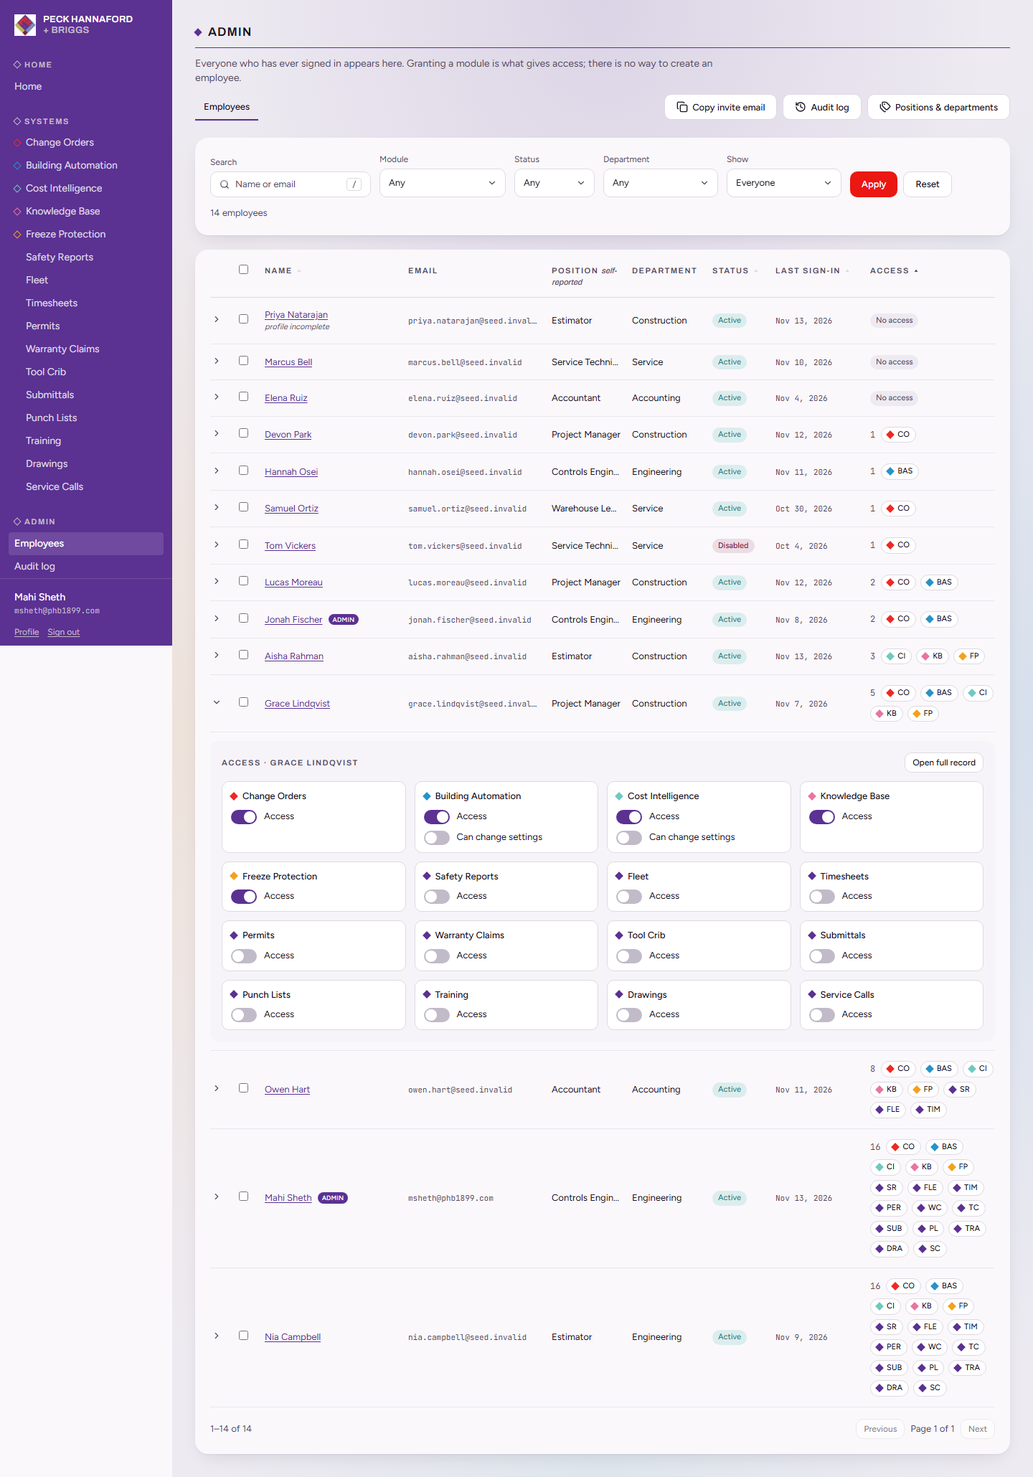
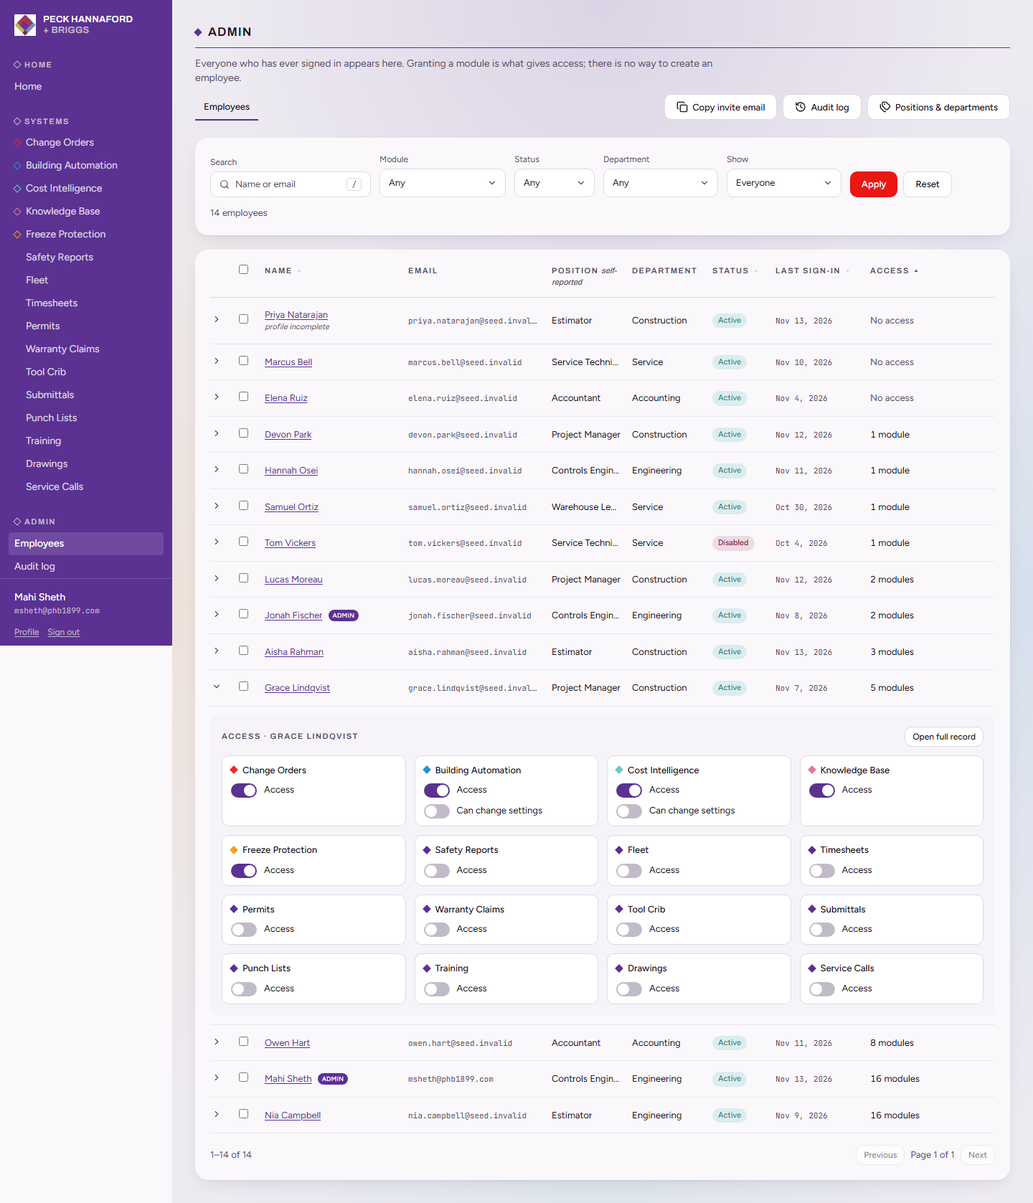
Admin Employees: the Access cell is a count only, the expanded row names the grants with granted modules first; Chip and the short-name lookup removed
A collapsed row says "4 modules", "1 module" or "No access" in grey and
nothing else, and still sorts by the count. The chevron's panel is the only
place on the list that names a specific grant: every active module, granted
ones first and the rest in the registry's order, each with its diamond in its
colour, its full name and the two switches. components/ui/Chip.tsx and
lib/module-short-name.ts are deleted - nothing else used either - and the
tests, the runbook, the conventions note, CLAUDE.md, the capture record and
the three "after" captures follow.

diff --git a/app/(platform)/admin/employee-table.tsx b/app/(platform)/admin/employee-table.tsx
@@ -6,9 +6,8 @@ import { ChevronDown, ChevronRight } from "lucide-react";
 import { useState, useTransition } from "react";
 import { APP_TIME_ZONE } from "@/lib/activity/rollover";
 import { moduleAccent } from "@/lib/module-accent";
-import { moduleShortName } from "@/lib/module-short-name";
 import { hasSettingsSurface } from "@/lib/module-settings";
-import { Button, Card, Chip, Dropdown, Empty, Pill, SearchBar, Switch, Table } from "@/components/ui";
+import { Button, Card, Dropdown, Empty, Pill, SearchBar, Switch, Table } from "@/components/ui";
 import { BulkBar } from "./bulk-bar";
 
 /**
@@ -26,12 +25,15 @@ import { BulkBar } from "./bulk-bar";
  *     page, Apply: all of them run the filters as drafted, because a draft a
  *     person can see is the query they mean. Reset clears the draft and the
  *     URL together.
- *   - **A row expands in place to its access panel**: every active module,
- *     a switch for the grant and one for the module's settings rights, edited
- *     through the same routes the employee page uses, with the same audit
- *     events and the same platform-admin check behind them. The panel is a
- *     wrapping grid, so fifteen modules are three rows of cards and never a
- *     horizontal scroll.
+ *   - **The Access column is a count; the row's panel is the picture.** A
+ *     collapsed row says "4 modules" or "No access" and nothing more, and
+ *     sorts by that count. The chevron expands the row to every active
+ *     module - granted ones first - with the module's diamond, its full name,
+ *     a switch for the grant and one for its settings rights, edited through
+ *     the same routes the employee page uses, with the same audit events and
+ *     the same platform-admin check behind them. The panel is a wrapping
+ *     grid, so fifteen modules are four rows of cards and never a horizontal
+ *     scroll. Nowhere else on the list names a specific grant.
  */
 
 export interface AdminEmployeeRow {
@@ -608,35 +610,31 @@ function SortHeader({
 }
 
 /**
- * The Access column: how many modules, then one chip per module - the
- * module's diamond in its own colour (the sidebar's, the header's) and its
- * short name, the full name behind it. Chips wrap, so a person with every
- * module is two lines and never a wider table. Nobody is "No access", in
- * words and in grey.
+ * The Access column: how many of the active modules the person holds, in
+ * words - "4 modules", "1 module" - or "No access" in grey. A count and
+ * nothing else (2026-11-13, second pass): which modules is the expanded
+ * panel's job, and a collapsed row stays one line whatever the person
+ * holds. The column sorts by this count on the server (`sort=access`).
  */
 export function AccessCell({ employee, modules }: { employee: AdminEmployeeRow; modules: AdminModule[] }) {
-  const granted = modules
-    .map((m, index) => ({ ...m, index }))
-    .filter((m) => employee.grantedModuleKeys.includes(m.key));
+  const count = modules.filter((m) => employee.grantedModuleKeys.includes(m.key)).length;
 
-  if (granted.length === 0) return <Pill tone="muted">No access</Pill>;
+  if (count === 0) return <span className="text-[var(--muted)]">No access</span>;
 
   return (
-    <span className="flex flex-wrap items-center gap-1.5" data-testid="admin-access-cell">
-      <span className="mr-0.5 font-mono text-[0.75rem] tabular-nums text-[var(--muted)]">{granted.length}</span>
-      {granted.map((m) => (
-        <Chip key={m.key} mark={moduleAccent(m.key, m.index).fill} title={m.displayName}>
-          {moduleShortName(m.key, m.displayName)}
-        </Chip>
-      ))}
+    <span className="tabular-nums" data-testid="admin-access-cell">
+      {count} {count === 1 ? "module" : "modules"}
     </span>
   );
 }
 
 /**
- * A row's expanded panel: every active module, a switch for the grant and -
- * once granted, for a module that has a settings screen - a switch for the
- * module-admin flag, with the employee page's wording.
+ * A row's expanded panel - the one place on the list that names a specific
+ * grant: every active module, granted ones first and the rest after in the
+ * registry's order, each with its diamond in its colour, its full name, a
+ * switch for the grant and - once granted, for a module that has a settings
+ * screen - a switch for the module-admin flag, with the employee page's
+ * wording.
  *
  * The settings switch is only offered once access is granted. The server
  * refuses it outright without a grant, because "administrator of a module you
@@ -664,6 +662,13 @@ export function AccessPanel({
 }) {
   const name = `${employee.firstName} ${employee.lastName}`.trim() || employee.email;
 
+  // Granted first, then the rest; within each, the registry's own order. The
+  // index is the module's place in the registry, which is what the accent
+  // lookup's fallback keys on, so a card's colour does not move with the sort.
+  const ordered = modules
+    .map((m, index) => ({ ...m, index, granted: employee.grantedModuleKeys.includes(m.key) }))
+    .sort((a, b) => Number(b.granted) - Number(a.granted) || a.index - b.index);
+
   return (
     <div data-testid="admin-access-panel">
       <div className="flex flex-wrap items-center justify-between gap-3">
@@ -677,8 +682,8 @@ export function AccessPanel({
         <p className="mt-3 text-[var(--muted)]">No active modules exist.</p>
       ) : (
         <ul className="mt-3 grid grid-cols-[repeat(auto-fill,minmax(16rem,1fr))] gap-3">
-          {modules.map((m, index) => {
-            const granted = employee.grantedModuleKeys.includes(m.key);
+          {ordered.map((m) => {
+            const granted = m.granted;
             const isAdmin = employee.moduleAdminKeys.includes(m.key);
             const settings = hasSettingsSurface(m.key);
             return (
@@ -686,11 +691,12 @@ export function AccessPanel({
                 key={m.key}
                 className="rounded-[var(--radius-control)] border border-[var(--border)] bg-white px-3 py-2.5"
                 data-testid="admin-access-module"
+                data-granted={granted ? "true" : "false"}
               >
                 <div className="flex items-center gap-2">
                   <span
                     className="diamond diamond--filled"
-                    style={{ color: moduleAccent(m.key, index).fill }}
+                    style={{ color: moduleAccent(m.key, m.index).fill }}
                     aria-hidden="true"
                   />
                   <span className="font-medium">{m.displayName}</span>

diff --git a/tests/admin-employees-ui.test.tsx b/tests/admin-employees-ui.test.tsx
@@ -45,7 +45,6 @@ import {
   type AdminModule,
 } from "@/app/(platform)/admin/employee-table";
 import { buildInviteEmail } from "@/lib/admin/invite-email";
-import { moduleShortName } from "@/lib/module-short-name";
 
 // ------------------------------------------------------------------ fixtures
 
@@ -181,41 +180,27 @@ afterEach(async () => {
 // -------------------------------------------------------------------- tests
 
 describe("the Access column", () => {
-  it("is a count then one chip per module, each with the module's diamond colour and its short name", () => {
+  it("is a count in words and nothing else: no chip, no diamond, no module name", () => {
     const markup = renderToStaticMarkup(createElement(AccessCell, { employee: two, modules: REAL }));
-    expect(markup).toMatch(/tabular-nums[^"]*">2<\/span>/);
-    // Change Orders' red, Building Automation's cyan - the sidebar's colours.
-    expect(markup).toContain('style="color:var(--phb-red)"');
-    expect(markup).toContain('style="color:var(--phb-cyan)"');
-    expect(markup).toContain('title="Change Orders"');
-    expect(markup).toContain('title="Building Automation"');
-    expect(markup).toContain('<span aria-hidden="true">CO</span><span class="sr-only">Change Orders</span>');
-    expect(markup).toContain('<span aria-hidden="true">BAS</span><span class="sr-only">Building Automation</span>');
-    // A module the person does not have is not a chip.
-    expect(markup).not.toContain("Cost Intelligence");
-    // Chips wrap rather than widen the table.
-    expect(markup).toContain("flex flex-wrap");
+    expect(markup).toBe('<span class="tabular-nums" data-testid="admin-access-cell">2 modules</span>');
+    expect(markup).not.toContain("diamond");
+    expect(markup).not.toContain("Change Orders");
+    expect(markup).not.toContain("Building Automation");
+    expect(markup).not.toContain("BAS");
+
+    const one = employee({ grantedModuleKeys: ["bas"] });
+    expect(renderToStaticMarkup(createElement(AccessCell, { employee: one, modules: REAL }))).toContain(">1 module</span>");
+    expect(renderToStaticMarkup(createElement(AccessCell, { employee: everyone, modules: MANY }))).toContain(">16 modules</span>");
+  });
+
+  it("counts only the active modules the registry lists, which is what the panel can show", () => {
+    const retired = employee({ grantedModuleKeys: ["change-orders", "no-such-module"] });
+    expect(renderToStaticMarkup(createElement(AccessCell, { employee: retired, modules: REAL }))).toContain(">1 module</span>");
   });
 
   it("says No access, in words and in grey, for nobody", () => {
     const markup = renderToStaticMarkup(createElement(AccessCell, { employee: nobody, modules: REAL }));
-    expect(markup).toContain(">No access</span>");
-    expect(markup).toContain("bg-[var(--neutral-100)] text-[var(--muted)]");
-    expect(markup).not.toContain("diamond");
-  });
-
-  it("short names: the five modules by name, anything else by initials, or three letters of a one-word name", () => {
-    expect(moduleShortName("change-orders", "Change Orders")).toBe("CO");
-    expect(moduleShortName("bas", "Building Automation")).toBe("BAS");
-    expect(moduleShortName("cost-intelligence", "Cost Intelligence")).toBe("CI");
-    expect(moduleShortName("knowledge-base", "Knowledge Base")).toBe("KB");
-    expect(moduleShortName("freeze-protection", "Freeze Protection")).toBe("FP");
-    expect(moduleShortName("safety-reports", "Safety Reports")).toBe("SR");
-    expect(moduleShortName("x", "Fleet Maintenance Log Book")).toBe("FML");
-    // One word: three letters, so Fleet and Training are not both "T".
-    expect(moduleShortName("fleet", "Fleet")).toBe("FLE");
-    expect(moduleShortName("training", "Training")).toBe("TRA");
-    expect(moduleShortName("constructor", "")).toBe("CON");
+    expect(markup).toBe('<span class="text-[var(--muted)]">No access</span>');
   });
 });
 
@@ -329,6 +314,17 @@ describe("a row's expanded panel", () => {
     // A wrapping grid, not a row: sixteen modules never need a sideways scroll.
     expect(panel!.querySelector("ul")?.className).toContain("grid-cols-[repeat(auto-fill,minmax(16rem,1fr))]");
 
+    // Granted first, then the rest, each half in the registry's order; the
+    // panel is the only place a specific grant is named.
+    const names = Array.from(cards).map((card) => card.querySelector(".font-medium")?.textContent);
+    expect(names.slice(0, 2)).toEqual(["Change Orders", "Building Automation"]);
+    expect(names.slice(2)).toEqual(MANY.filter((m) => !two.grantedModuleKeys.includes(m.key)).map((m) => m.displayName));
+    expect(Array.from(cards).map((card) => card.getAttribute("data-granted"))).toEqual([
+      "true",
+      "true",
+      ...Array.from({ length: 14 }, () => "false"),
+    ]);
+
     const switches = (card: Element) => Array.from(card.querySelectorAll('[role="switch"]'));
     const co = byText(panel!, '[data-testid="admin-access-module"] .font-medium', "Change Orders")!.closest("li")!;
     const bas = byText(panel!, '[data-testid="admin-access-module"] .font-medium', "Building Automation")!.closest("li")!;
@@ -431,5 +427,11 @@ describe("the chrome", () => {
     // The status pills keep the colours the table had: teal for active, maroon for disabled.
     expect(markup).toContain("text-[var(--phb-teal-ink)]");
     expect(markup).toContain("text-[var(--phb-maroon)]");
+    // No row names a module while collapsed; the counts do the work.
+    expect(markup).toContain(">No access</span>");
+    expect(markup).toContain(">2 modules</span>");
+    expect(markup).toContain(">16 modules</span>");
+    expect(markup).not.toContain('style="color:var(--phb-cyan)"');
+    expect(markup).not.toContain("Building Automation");
   });
 });

diff --git a/tests/ui-kit-extensions.test.tsx b/tests/ui-kit-extensions.test.tsx
@@ -18,8 +18,6 @@ import * as kit from "@/components/ui";
  *   - Table: `columns` for unequal widths and `detail` for a panel under an
  *     expanded row. Its default markup is pinned byte for byte to what it
  *     rendered before, so every table drawn before draws the same.
- *   - Chip: a neutral label for a thing, with an optional diamond mark in a
- *     colour the caller names and a long name behind a short one.
  *   - Switch: an on / off control, `role="switch"`, the accent when on.
  */
 
@@ -63,26 +61,6 @@ describe("Table", () => {
     expect(panelAt).toBeGreaterThan(markup.indexOf(">3</div>"));
     expect(markup.indexOf(">1</div>")).toBeLessThan(markup.indexOf(">3</div>"));
     expect(markup).toContain('class="rounded-[var(--radius-row)] bg-[var(--neutral-50)] px-4 py-4 text-[0.8125rem]"');
-  });
-});
-
-describe("Chip", () => {
-  it("is a neutral label with no mark and no title by default", () => {
-    const markup = html(<kit.Chip>CO</kit.Chip>);
-    expect(markup).toBe(
-      '<span class="inline-flex shrink-0 items-center gap-1.5 rounded-full border border-[var(--border)] bg-white px-2 py-0.5 text-[0.6875rem] font-medium text-[var(--foreground)]">CO</span>',
-    );
-  });
-
-  it("draws the diamond in the colour it is given, and reads the long name behind the short one", () => {
-    const markup = html(
-      <kit.Chip mark="var(--phb-cyan)" title="Building Automation">
-        BAS
-      </kit.Chip>,
-    );
-    expect(markup).toContain('title="Building Automation"');
-    expect(markup).toMatch(/<span class="diamond diamond--filled[^"]*" style="color:var\(--phb-cyan\)" aria-hidden="true"><\/span>/);
-    expect(markup).toContain('<span aria-hidden="true">BAS</span><span class="sr-only">Building Automation</span>');
   });
 });
 

diff --git a/components/ui/index.ts b/components/ui/index.ts
@@ -18,7 +18,6 @@
 export { Button } from "./Button";
 export { Callout } from "./Callout";
 export { Card } from "./Card";
-export { Chip } from "./Chip";
 export { Dropdown, type DropdownOption } from "./Dropdown";
 export { Empty } from "./Empty";
 export {

diff --git a/docs/design/admin-employees-kit/README.md b/docs/design/admin-employees-kit/README.md
@@ -10,8 +10,8 @@ per module became one Access column with chips and an expandable row
 | Capture | What it shows |
 |---|---|
 | `before-employees.png` | `main` at 107c318: the old page on the same data. *With a grant* by default, so three of the fourteen people - the ones who signed in and have no access - are not on it; one column per module, sixteen of them, running off the right edge of a 1440-wide window; name ascending. |
-| `after-employees.png` | This branch, the same data: the module shells' chrome with the three header actions as kit buttons, the kit search box and dropdowns, Apply the one red primary. Everyone, fewest grants first, the three people with no access at the top, newest sign-in first. One Access column: a count, then a chip per module with the module's diamond in its colour and its short name, wrapping to four lines for the two people who hold all sixteen. |
-| `after-employees-expanded.png` | Grace Lindqvist's row expanded from its chevron: sixteen module cards in a wrapping grid of four, a switch for the grant on each, *Can change settings* on the two granted modules that have a settings screen (Building Automation, Cost Intelligence) and not on Change Orders, *Open full record* at the corner. The table's scroll box measured 1094 px of 1094 during the capture: nothing scrolls sideways. |
+| `after-employees.png` | This branch, the same data: the module shells' chrome with the three header actions as kit buttons, the kit search box and dropdowns, Apply the one red primary. Everyone, fewest grants first, the three people with no access at the top, newest sign-in first. One Access column, a count in words - *No access*, *1 module*, *16 modules* - and nothing else; every row is one line whatever the person holds. (A first pass put a chip per module on the row; the owner asked for the count alone the same day.) |
+| `after-employees-expanded.png` | Grace Lindqvist's row expanded from its chevron: sixteen module cards in a wrapping grid of four, her five granted modules first and the eleven others after, each with its diamond in its colour and its full name, a switch for the grant on each, *Can change settings* on the two granted modules that have a settings screen (Building Automation, Cost Intelligence) and not on Change Orders, *Open full record* at the corner. The only place on the list that names a specific grant. The table's scroll box measured 1094 px of 1094 during the capture: nothing scrolls sideways. |
 | `after-employees-narrowed.png` | Two letters typed into the search box: the page narrowed live to three rows, and the count line reading *3 of 14 on this page match. Apply to search all 14.* - the one place the screen says that what you see is this page narrowed and not the query re-run. |
 
 ## Method
@@ -31,23 +31,23 @@ Permits, Warranty Claims, Tool Crib, Submittals, Punch Lists, Training,
 Drawings, Service Calls - registered in the test database's `modules` table
 for the capture only, so the "fifteen or more modules" case in the request
 is what the expanded capture shows rather than something argued from five.
-Their chips wear the chrome purple, which is what `lib/module-accent.ts`
-hands a module the palette has no slot for, and their short names are the
-fallback in `lib/module-short-name.ts` (initials, or three letters of a
-one-word name). The row expanded and the search typed were driven through
-the page's own controls, not by navigating to a URL. The test database was
-dropped and recreated with `npm run db:test:setup` afterwards, so nothing of
-the seed outlives the capture.
+Their diamonds wear the chrome purple, which is what `lib/module-accent.ts`
+hands a module the palette has no slot for. The row expanded and the search
+typed were driven through the page's own controls, not by navigating to a
+URL. The test database was dropped and recreated with `npm run
+db:test:setup` afterwards, so nothing of the seed outlives the capture.
 
 ## The other modules, byte for byte
 
-The kit gained three things here - `Table` took `columns` and `detail`,
-and `Chip` and `Switch` were added - and `ModuleHeader` took an `accent`.
-Each defaults to what it rendered before, and that was proved rather than
-asserted: six screens were captured from the `main` worktree and from this
-branch with the same harness, against the **development** database (the
-real BAS stations and report runs), and compared as files and pixel by
-pixel in Chromium:
+The kit gained two things here - `Table` took `columns` and `detail`, and
+`Switch` was added - and `ModuleHeader` took an `accent`. Each defaults to
+what it rendered before, and that was proved rather than asserted: six
+screens were captured from the `main` worktree and from this branch with
+the same harness, against the **development** database (the real BAS
+stations and report runs), and compared as files and pixel by pixel in
+Chromium. (The comparison was run on the first pass, which also added a
+`Chip` component; the second pass deleted it, unused by anything but the
+Employees list, and touched no other kit file, so the result stands.)
 
 | Screen | Result |
 |---|---|

diff --git a/runbook.md b/runbook.md
@@ -5853,20 +5853,21 @@ default order. Their panel stays open wherever the row lands.
 
 ## The Access column, and a row's expanded panel
 
-**One Access column instead of one column per module (2026-11-13).** A count,
-then one chip per module the person holds - the module's diamond in its own
-colour, the sidebar's, and a short name: CO, BAS, CI, KB, FP, and the initials
-of the display name for any module added later (`lib/module-short-name.ts`;
-hover a chip for the full name). Nobody reads *No access*, in grey. Chips
-wrap, so a person with every module is two lines, never a wider table.
+**One Access column instead of one column per module (2026-11-13).** A
+collapsed row says how many of the active modules the person holds - *4
+modules*, *1 module* - or *No access* in grey, and nothing else: no module is
+named until the row is expanded. The column sorts by that count.
 
-**The chevron at the left of a row expands it in place**: every active
-module as a card with a switch for the grant and, once granted, a switch for
-*Can change settings*. The switches call the employee page's own routes -
-`POST`/`DELETE …/grants`, `PUT …/grants/<module>/admin` - so the audit rows
-are `grant.added`, `grant.removed`, `grant.admin_added`, `grant.admin_removed`
-exactly as from that page, and `withAdmin` guards every one. Fifteen modules
-are a wrapping grid of cards, not a sideways scroll.
+**The chevron at the left of a row expands it in place**, and that panel is
+the only place on the list that names a specific grant: every active module
+as a card, **granted ones first** and the rest after in the registry's order,
+each with the module's diamond in its colour, its full name, a switch for the
+grant and, once granted, a switch for *Can change settings*. The switches
+call the employee page's own routes - `POST`/`DELETE …/grants`, `PUT
+…/grants/<module>/admin` - so the audit rows are `grant.added`,
+`grant.removed`, `grant.admin_added`, `grant.admin_removed` exactly as from
+that page, and `withAdmin` guards every one. Fifteen modules are a wrapping
+grid of cards, not a sideways scroll.
 
 **The panel offers *Can change settings* for some modules and not others.**
 Only a module with a settings screen (`lib/module-settings.ts`) gets the

diff --git a/CLAUDE.md b/CLAUDE.md
@@ -1618,16 +1618,19 @@ kept. Three behaviour changes, all decided by the owner: **the default Show
 is Everyone** (was *With a grant*); **the default sort is fewest grants
 first, then most recent sign-in** (`sort=access`, a fourth sort key), so the
 people who signed in and have nothing are the top rows; and **one Access
-column** - a count and one chip per module, the module's diamond in its colour
-and a short name (`lib/module-short-name.ts`), *No access* in grey - replaces
-the column per module. A chevron expands a row in place to every module with
-a switch for the grant and one for settings rights, through the employee
-page's own routes and audit events, as a wrapping grid that holds fifteen
-modules without a sideways scroll. The filters narrow the page live as you
-type; Apply, the red primary, runs the server query into the URL; Reset
-clears both. Three kit additions, each defaulting to the old rendering:
-`Table` `columns` and `detail`, `Chip`, `Switch`; the four other modules were
-re-captured byte-identical to prove it (`docs/design/admin-employees-kit/`).
+column** - a count in words, *4 modules* or *No access* in grey, and nothing
+else - replaces the column per module. A chevron expands a row in place to
+every module, granted ones first, each with its diamond in its colour, its
+full name, a switch for the grant and one for settings rights, through the
+employee page's own routes and audit events, as a wrapping grid that holds
+fifteen modules without a sideways scroll; **the panel is the only place on
+the list that names a specific grant** (the owner's decision, same day, over
+a first pass that put a chip per module on the collapsed row). The filters
+narrow the page live as you type; Apply, the red primary, runs the server
+query into the URL; Reset clears both. Two kit additions, each defaulting to
+the old rendering: `Table` `columns` and `detail`, and `Switch`; the four
+other modules were re-captured byte-identical to prove it
+(`docs/design/admin-employees-kit/`).
 The audit log and the lists pages keep their own chrome. `runbook.md` →
 *Admin panel (Phase 10)*; `tests/admin-employees-ui.test.tsx`.
 

diff --git a/docs/07-conventions.md b/docs/07-conventions.md
@@ -88,7 +88,7 @@ stop and ask.
 ## UI
 
 Every screen is drawn with the shared kit in `components/ui/`: buttons, cards,
-pills, chips, the switch, the segmented control, the tab bar, tables (with an
+pills, the switch, the segmented control, the tab bar, tables (with an
 optional column template and an expanded-row panel), dropdowns, form fields,
 the empty state and the callout. **For new UI the kit is the rule, not a
 suggestion.**
